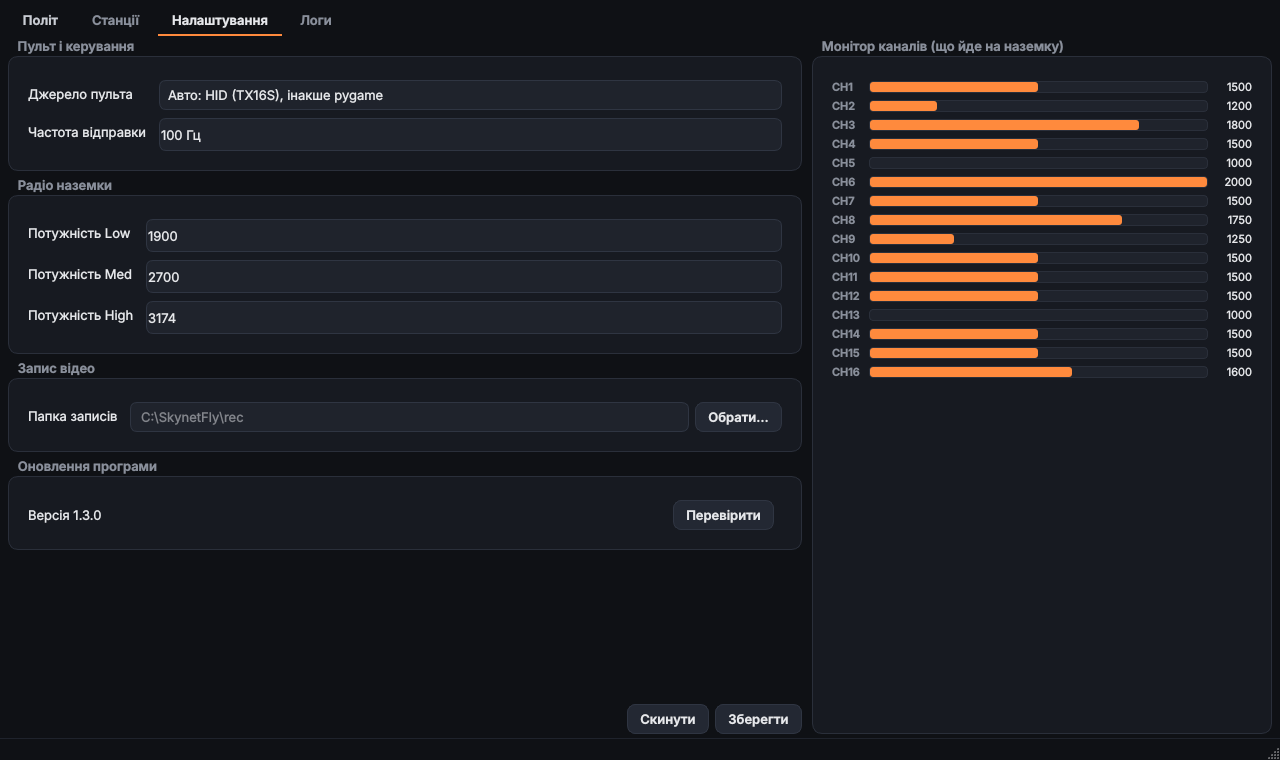
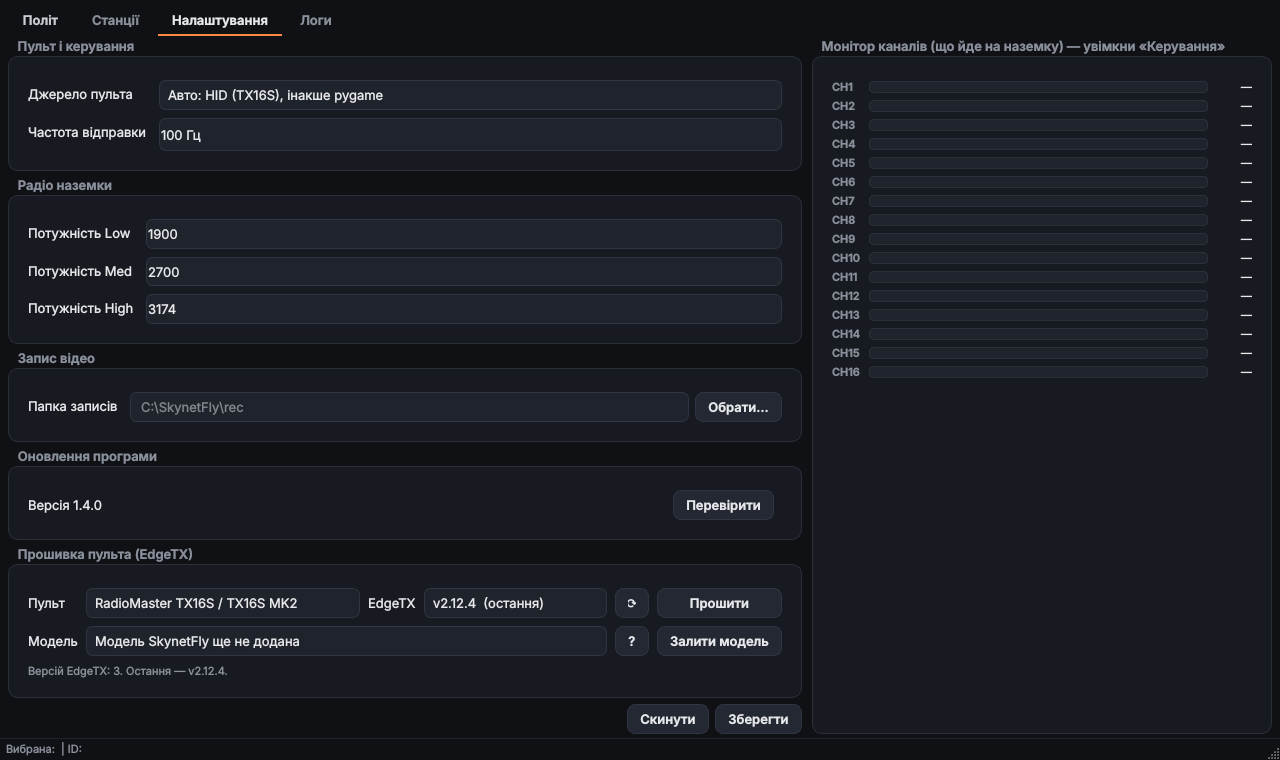
README: прошивка пульта EdgeTX і заливка моделі (SkynetFly 1.4.0)
Claude-Session: https://claude.ai/code/session_01Don98DffMVJhYaKky6CDwg

diff --git a/README.md b/README.md
@@ -17,9 +17,10 @@
 5. [Вкладка «Налаштування»](#вкладка-налаштування)
 6. [Вкладка «Логи»](#вкладка-логи)
 7. [Пульт TX16S: 16 каналів по USB](#пульт-tx16s-16-каналів-по-usb)
-8. [Оновлення програми](#оновлення-програми)
-9. [Файли програми](#файли-програми)
-10. [Якщо щось не працює](#якщо-щось-не-працює)
+8. [Прошивка пульта EdgeTX і заливка моделі](#прошивка-пульта-edgetx-і-заливка-моделі)
+9. [Оновлення програми](#оновлення-програми)
+10. [Файли програми](#файли-програми)
+11. [Якщо щось не працює](#якщо-щось-не-працює)
 
 ---
 
@@ -139,6 +140,10 @@
 
 Поточна версія і кнопка **Перевірити** / **Оновити**. Докладніше в розділі [Оновлення програми](#оновлення-програми).
 
+### Прошивка пульта (EdgeTX)
+
+Прошивка пульта керування офіційним EdgeTX і заливка на пульт моделі SkynetFly. Докладно — у розділі [Прошивка пульта EdgeTX і заливка моделі](#прошивка-пульта-edgetx-і-заливка-моделі). Кнопка **?** показує покрокову інструкцію для вибраного пульта.
+
 ### Монітор каналів
 
 Праворуч у реальному часі видно всі 16 каналів (1000–2000 мкс), які зараз ідуть на наземку. Зручно для перевірки пульта перед польотом.
@@ -164,6 +169,60 @@ Windows через DirectInput бачить лише 8 осей джойстик
 3. Для CH1–CH16 вибери тип **Axis** (або **Sim**). Кожному каналу — своя вісь, без повторів.
 4. У SkynetFly: «Налаштування» → «Джерело пульта» → **Авто** або **Тільки HID**.
 5. Перевір рух стіків і перемикачів на «Моніторі каналів».
+
+---
+
+## Прошивка пульта EdgeTX і заливка моделі
+
+З версії 1.4.0 SkynetFly сама прошиває пульт керування: версія EdgeTX береться з [офіційного репозиторію EdgeTX](https://github.com/EdgeTX/edgetx/releases), прошивка пишеться по USB у режимі DFU, після запису програма читає її назад і перевіряє.
+
+| Пульт | Версії EdgeTX |
+|---|---|
+| RadioMaster TX16S / TX16S MK2 | усі |
+| RadioMaster TX12 (MK1) | до 2.11.x (новіші EdgeTX цей пульт не підтримують) |
+| RadioMaster TX12 MK2 | усі |
+| RadioMaster Boxer | усі |
+
+Список пультів поповнюватиметься.
+
+### Один раз на цьому ПК: драйвер
+
+Windows сама не дає програмам доступу до пульта в режимі DFU. Потрібен драйвер **WinUSB** для пристрою «STM32 BOOTLOADER»:
+
+- найпростіше — [ImpulseRC Driver Fixer](https://github.com/ImpulseRC/ImpulseRC_Driver_Fixer/releases): запусти його, підключи вимкнений пульт по USB, він сам поставить драйвер;
+- або [Zadig](https://zadig.akeo.ie/): Options → List All Devices → «STM32 BOOTLOADER» → WinUSB → Install Driver.
+
+### Прошивка EdgeTX: що за чим робити
+
+1. **Збережи моделі.** Увімкни пульт, підключи USB, на пульті вибери **USB Storage (SD)** і скопіюй папки `MODELS` і `RADIO` з SD-карти собі на ПК.
+2. У SkynetFly: **Налаштування → Прошивка пульта**. Вибери **пульт** і **версію EdgeTX** (⟳ оновлює список; перша в списку — остання).
+3. **Вимкни пульт.**
+4. Натисни **Прошити** і підтверди.
+5. Підключи USB-кабель до **вимкненого** пульта, у роз'єм на верхній панелі (у TX16S — не той, що в батарейному відсіку). Пульт не вмикається: це режим DFU. Програма чекає пульт до 90 секунд.
+6. Дочекайся кінця: **стирання → запис → перевірка**, 1–3 хвилини. **Не від'єднуй кабель і не закривай програму** (вона й не дасть закритися під час прошивки).
+7. Після «Готово» від'єднай кабель і увімкни пульт.
+8. Якщо пульт попереджає про версію SD-карти — онови вміст SD-карти SD-пакетом EdgeTX тієї самої версії.
+
+Перший раз програма завантажує архів EdgeTX (кілька десятків МБ) і далі бере його з кешу.
+
+### Заливка моделі SkynetFly
+
+1. **Увімкни** пульт і підключи USB. На пульті вибери **USB Storage (SD)** — у Windows з'явиться диск з папками `MODELS` і `RADIO`.
+2. У блоці «Прошивка пульта» вибери **модель** і натисни **Залити модель**. Можна вибрати й свій файл: «Обрати файл моделі…» (`*.yml` з папки `MODELS` іншого пульта).
+3. Якщо на пульті вже є модель з таким самим ім'ям, програма її замінить, а стару копію збереже в `MODELS\skynetfly_backup`. Інакше модель додається як новий `modelN.yml`, інші моделі не чіпаються.
+4. Безпечно витягни диск у Windows, від'єднай кабель і вибери модель на пульті.
+5. Для роботи з SkynetFly підключи USB ще раз і вибери **USB Joystick (HID)**.
+
+### Якщо прошивка не вдалася
+
+Пульт так не зіпсуєш: режим DFU вбудований у процесор. Вимкни пульт, від'єднай батарею на 10 секунд, підключи USB у вимкненому стані й проший ще раз. Якщо прошив не той пульт — вибери правильний і проший знову.
+
+| Повідомлення | Що робити |
+|---|---|
+| «Пульт у режимі DFU не знайдено» | пульт має бути вимкнений; інший кабель (деякі лише заряджають); інший роз'єм |
+| «Потрібен драйвер WinUSB» | постав драйвер (див. вище) |
+| «У EdgeTX … немає прошивки для …» | ця версія не підтримує пульт — вибери іншу |
+| «Пульт як диск не знайдено» | на пульті треба вибрати USB Storage (SD), а не Joystick |
 
 ---
 
@@ -193,6 +252,7 @@ Windows через DirectInput бачить лише 8 осей джойстик
 | `local_stations.json` | станції з локальної мережі |
 | `rec\` | записи відео (якщо не вибрано іншу папку) |
 | `keys\` | збережені ключі прив'язки |
+| `radio_models\` | моделі EdgeTX для заливки на пульт |
 | `install.bat` | одноразове налаштування Defender і брандмауера |
 
 ---
